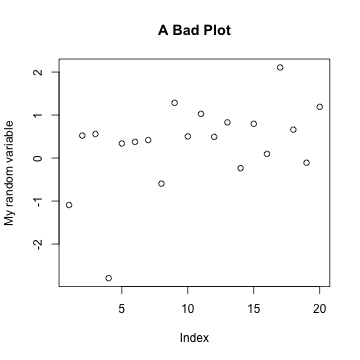
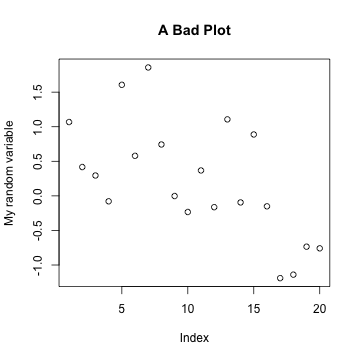
Turn on caching (ignore the cache files)

diff --git a/courses/biolB215s13/first_steps.md b/courses/biolB215s13/first_steps.md
@@ -994,8 +994,8 @@ rnorm(n = 12, mean = 3, sd = 5)
 
 
 {% highlight text %}
-##  [1]  3.869  1.981  7.688  3.921 -3.564  6.397 -4.175  7.145  1.481 -5.545
-## [11]  3.267  2.056
+##  [1]  8.339  5.084  4.473  2.607 11.031  5.895 12.285  6.716  2.989  1.835
+## [11]  4.838  2.182
 {% endhighlight %}
 
 You can actually take a shortcut and not give the argument names explicitly, as long as you give them in the order expected:
@@ -1007,8 +1007,8 @@ rnorm(12, 3, 5)
 
 
 {% highlight text %}
-##  [1]  8.4036  3.0903  6.1925 -1.5030  4.8541  4.0534  8.7923 -0.6792
-##  [9]  4.5874  1.2151  3.5151  1.8892
+##  [1]  8.5321  2.5257  7.4402  2.2448 -2.9494 -2.6978 -0.6749 -0.7934
+##  [9] 12.3240  4.7489  7.0968  3.3546
 {% endhighlight %}
 
 Some arguments have default values, which you can see if you look at the help page for the function you are interested in. For `rnorm()` the default `mean` is `0` and the default `sd` is `1`. If we want to use those, we can shorten our call further and leave those off completely:
@@ -1020,8 +1020,8 @@ rnorm(12) # equivalent to rnorm(12, 0, 1)
 
 
 {% highlight text %}
-##  [1] -2.3425 -0.8902  0.5632 -0.7580  0.5680 -0.1129  1.1362  0.5958
-##  [9]  1.3860 -0.8861  1.0796  1.9063
+##  [1] -0.72192 -0.41138  0.32912 -1.98467  0.03093  1.67171 -0.81785
+##  [8] -0.74734 -0.48133 -0.10988 -0.79118 -1.12635
 {% endhighlight %}
 
 If you want to leave some arguments as their default but change others, you can skip the ones you don't want to change, but then you **must** name any arguments that are out of order. If I want 5 random numbers with mean 0 but standard deviation of 0.2 (rather than default of 1), I could do the following:
@@ -1033,7 +1033,7 @@ rnorm(5, sd = 0.2)
 
 
 {% highlight text %}
-## [1] -0.015988  0.070612  0.001292 -0.045066  0.218979
+## [1]  0.14999  0.21532 -0.01341  0.12641  0.08772
 {% endhighlight %}
 
 
